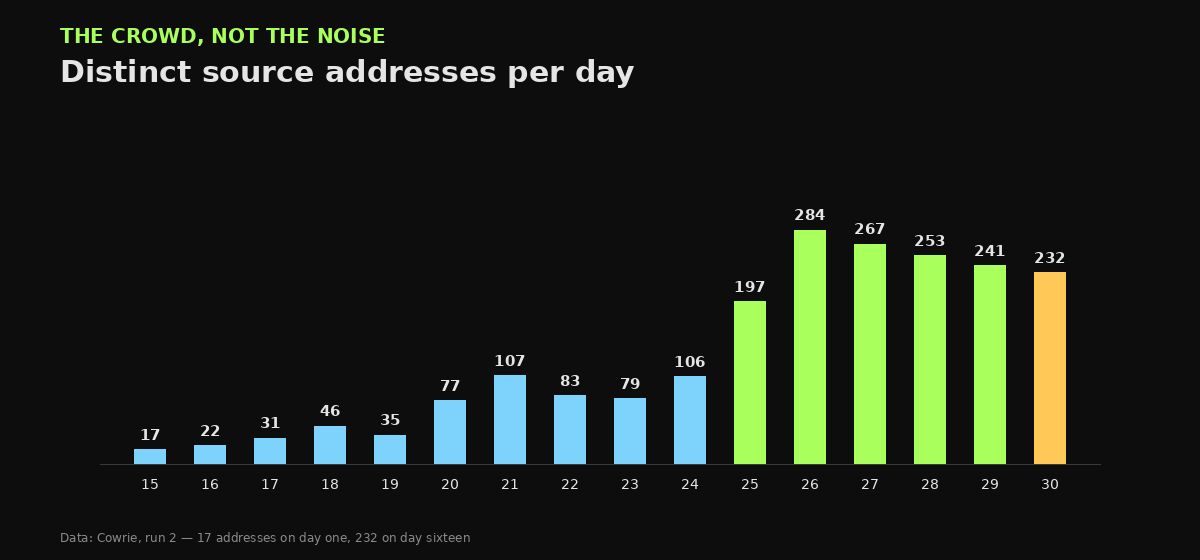
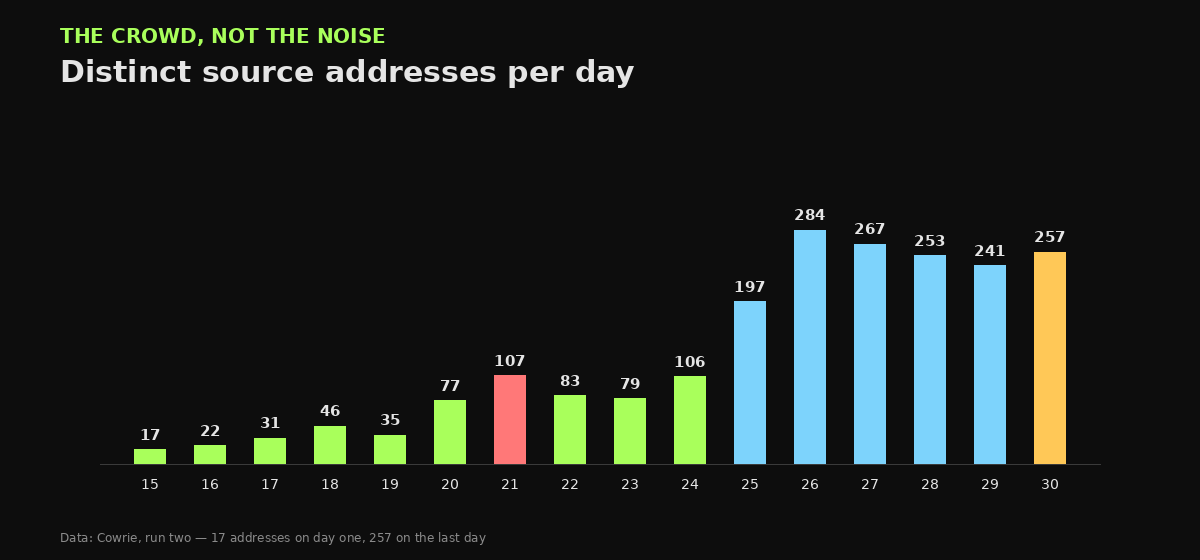
draft(honeypot v2): closing cut - final numbers, cast, charts from the closed run

Changed region(s): [[0.0925, 0.3946, 0.8942, 0.85], [0.1233, 0.9411, 0.4008, 0.9714]]

diff --git a/assets/img/posts/honeypot-v2-sinkhole-classes.html b/assets/img/posts/honeypot-v2-sinkhole-classes.html
@@ -5,12 +5,12 @@
 <body>
 <div style="height:128px;padding:24px 60px 0 60px;background:#0d0d0d;box-sizing:border-box">
   <div style="color:#a9ff5b;font:700 20px 'DejaVu Sans'">WHAT THE PLANTED PORTS WERE ASKED FOR</div>
-  <div style="color:#e5e5e5;font:700 30px 'DejaVu Sans';margin-top:6px">Fake-C2 traffic by class — 3,965 requests</div>
+  <div style="color:#e5e5e5;font:700 30px 'DejaVu Sans';margin-top:6px">Fake-C2 traffic by class — 4,006 requests</div>
 </div>
 <canvas id="c" width="1200" height="432"></canvas><script>
 Chart.defaults.font.family = 'DejaVu Sans';
 Chart.defaults.color = '#8c8c8c';
 Chart.register(ChartDataLabels);
-const cfg = {type:'doughnut',data:{labels:["treats the port as a plain web server \u2014 1,309 (33%)", "other path probes \u2014 764 (19%)", "hunts config, secrets, admin panels \u2014 641 (16%)", "TLS ClientHello on a non-TLS port \u2014 466 (12%)", "silent connections \u2014 325 (8%)", "looks for an AI agent (/mcp, /sse, /v1/messages) \u2014 201 (5%)", "raw protocol pings \u2014 180 (5%)", "embedded-device exploits (router, camera) \u2014 79 (2%)"],datasets:[{data:[1309, 764, 641, 466, 325, 201, 180, 79],backgroundColor:["#a9ff5b", "#4fb3a5", "#7dd3fc", "#ffc857", "#b07dd6", "#ff7878", "#8c8c8c", "#5a5a5a"],borderColor:'#0d0d0d',borderWidth:3,hoverOffset:6}]}},options:{cutout:'56%',layout:{padding:12},plugins:{legend:{position:'top',align:'center',labels:{boxWidth:13,padding:10,font:{size:13},color:'#e5e5e5'}},datalabels:{color:'#0d0d0d',font:{size:15,weight:'bold'},formatter:function(v,ctx){const t=ctx.chart.data.datasets[0].data.reduce((a,b)=>a+b,0);const p=v/t*100;return p>=6?p.toFixed(0)+'%':'';}}}}};
+const cfg = {type:'doughnut',data:{labels:["treats the port as a plain web server \u2014 1,320 (33%)", "other path probes \u2014 767 (19%)", "hunts config, secrets, admin panels \u2014 647 (16%)", "TLS ClientHello on a non-TLS port \u2014 478 (12%)", "silent connections \u2014 329 (8%)", "looks for an AI agent (/mcp, /sse, /v1/messages) \u2014 201 (5%)", "raw protocol pings \u2014 182 (5%)", "embedded-device exploits (router, camera) \u2014 82 (2%)"],datasets:[{data:[1320, 767, 647, 478, 329, 201, 182, 82],backgroundColor:["#a9ff5b", "#4fb3a5", "#7dd3fc", "#ffc857", "#b07dd6", "#ff7878", "#8c8c8c", "#5a5a5a"],borderColor:'#0d0d0d',borderWidth:3,hoverOffset:6}]}},options:{cutout:'56%',layout:{padding:12},plugins:{legend:{position:'top',align:'center',labels:{boxWidth:13,padding:10,font:{size:13},color:'#e5e5e5'}},datalabels:{color:'#0d0d0d',font:{size:15,weight:'bold'},formatter:function(v,ctx){const t=ctx.chart.data.datasets[0].data.reduce((a,b)=>a+b,0);const p=v/t*100;return p>=6?p.toFixed(0)+'%':'';}}}}};
 new Chart(document.getElementById('c'), cfg);
 </script></body></html>

diff --git a/assets/img/posts/honeypot-v2-ssh-attempts-per-day.html b/assets/img/posts/honeypot-v2-ssh-attempts-per-day.html
@@ -5,12 +5,12 @@
 <body>
 <div style="height:128px;padding:24px 60px 0 60px;background:#0d0d0d;box-sizing:border-box">
   <div style="color:#a9ff5b;font:700 20px 'DejaVu Sans'">PORT 22, DAY BY DAY</div>
-  <div style="color:#e5e5e5;font:700 30px 'DejaVu Sans';margin-top:6px">SSH login attempts per day — 94,404 in 16 days</div>
+  <div style="color:#e5e5e5;font:700 30px 'DejaVu Sans';margin-top:6px">SSH login attempts per day — 95,231 in 16 days</div>
 </div>
 <canvas id="c" width="1200" height="432"></canvas><script>
 Chart.defaults.font.family = 'DejaVu Sans';
 Chart.defaults.color = '#8c8c8c';
 Chart.register(ChartDataLabels);
-const cfg = {type:'bar',data:{labels:["15", "16", "17", "18", "19", "20", "21", "22", "23", "24", "25", "26", "27", "28", "29", "30"],datasets:[{data:[2718, 7619, 2828, 3221, 7831, 6629, 11948, 6855, 5131, 5333, 9957, 5225, 4033, 4638, 6453, 3985],backgroundColor:["#8c8c8c", "#8c8c8c", "#8c8c8c", "#8c8c8c", "#8c8c8c", "#8c8c8c", "#ff7878", "#8c8c8c", "#8c8c8c", "#8c8c8c", "#8c8c8c", "#8c8c8c", "#8c8c8c", "#8c8c8c", "#8c8c8c", "#ffc857"],borderWidth:0,barPercentage:0.6}]}},options:{layout:{padding:{top:24,right:24,bottom:8,left:8}},scales:{x:{grid:{display:false},ticks:{color:'#e5e5e5',font:{size:14}}},y:{display:false,beginAtZero:true,grace:'25%'}},plugins:{legend:{display:false},datalabels:{anchor:'end',align:'end',color:'#e5e5e5',font:{size:17,weight:'bold'},formatter:v=>v+'%'}}}};
+const cfg = {type:'bar',data:{labels:["15", "16", "17", "18", "19", "20", "21", "22", "23", "24", "25", "26", "27", "28", "29", "30"],datasets:[{data:[2718, 7619, 2828, 3221, 7831, 6629, 11948, 6855, 5131, 5333, 9957, 5225, 4033, 4638, 6453, 4812],backgroundColor:["#8c8c8c", "#8c8c8c", "#8c8c8c", "#8c8c8c", "#8c8c8c", "#8c8c8c", "#ff7878", "#8c8c8c", "#8c8c8c", "#8c8c8c", "#8c8c8c", "#8c8c8c", "#8c8c8c", "#8c8c8c", "#8c8c8c", "#ffc857"],borderWidth:0,barPercentage:0.6}]}},options:{layout:{padding:{top:24,right:24,bottom:8,left:8}},scales:{x:{grid:{display:false},ticks:{color:'#e5e5e5',font:{size:14}}},y:{display:false,beginAtZero:true,grace:'25%'}},plugins:{legend:{display:false},datalabels:{anchor:'end',align:'end',color:'#e5e5e5',font:{size:17,weight:'bold'},formatter:v=>v+'%'}}}};
 new Chart(document.getElementById('c'), cfg);
 </script></body></html>

diff --git a/assets/img/posts/honeypot-v2-distinct-ips-per-day.html b/assets/img/posts/honeypot-v2-distinct-ips-per-day.html
@@ -11,6 +11,6 @@
 Chart.defaults.font.family = 'DejaVu Sans';
 Chart.defaults.color = '#8c8c8c';
 Chart.register(ChartDataLabels);
-const cfg = {type:'bar',data:{labels:["15", "16", "17", "18", "19", "20", "21", "22", "23", "24", "25", "26", "27", "28", "29", "30"],datasets:[{data:[17, 22, 31, 46, 35, 77, 107, 83, 79, 106, 197, 284, 267, 253, 241, 232],backgroundColor:["#7dd3fc", "#7dd3fc", "#7dd3fc", "#7dd3fc", "#7dd3fc", "#7dd3fc", "#7dd3fc", "#7dd3fc", "#7dd3fc", "#7dd3fc", "#a9ff5b", "#a9ff5b", "#a9ff5b", "#a9ff5b", "#a9ff5b", "#ffc857"],borderWidth:0,barPercentage:0.6}]}},options:{layout:{padding:{top:24,right:24,bottom:8,left:8}},scales:{x:{grid:{display:false},ticks:{color:'#e5e5e5',font:{size:14}}},y:{display:false,beginAtZero:true,grace:'25%'}},plugins:{legend:{display:false},datalabels:{anchor:'end',align:'end',color:'#e5e5e5',font:{size:17,weight:'bold'},formatter:v=>v+'%'}}}};
+const cfg = {type:'bar',data:{labels:["15", "16", "17", "18", "19", "20", "21", "22", "23", "24", "25", "26", "27", "28", "29", "30"],datasets:[{data:[17, 22, 31, 46, 35, 77, 107, 83, 79, 106, 197, 284, 267, 253, 241, 257],backgroundColor:["#a9ff5b", "#a9ff5b", "#a9ff5b", "#a9ff5b", "#a9ff5b", "#a9ff5b", "#ff7878", "#a9ff5b", "#a9ff5b", "#a9ff5b", "#7dd3fc", "#7dd3fc", "#7dd3fc", "#7dd3fc", "#7dd3fc", "#ffc857"],borderWidth:0,barPercentage:0.6}]}},options:{layout:{padding:{top:24,right:24,bottom:8,left:8}},scales:{x:{grid:{display:false},ticks:{color:'#e5e5e5',font:{size:14}}},y:{display:false,beginAtZero:true,grace:'25%'}},plugins:{legend:{display:false},datalabels:{anchor:'end',align:'end',color:'#e5e5e5',font:{size:17,weight:'bold'},formatter:v=>v+'%'}}}};
 new Chart(document.getElementById('c'), cfg);
 </script></body></html>

diff --git a/assets/img/posts/honeypot-v2-value-surface.html b/assets/img/posts/honeypot-v2-value-surface.html
@@ -5,7 +5,7 @@
 <body>
 <div style="height:128px;padding:24px 60px 0 60px;background:#0d0d0d;box-sizing:border-box">
   <div style="color:#a9ff5b;font:700 20px 'DejaVu Sans'">WHAT THEY ASKED THE FAKE EXCHANGE FOR</div>
-  <div style="color:#e5e5e5;font:700 30px 'DejaVu Sans';margin-top:6px">Value-surface requests from 4 addresses — 27 hits</div>
+  <div style="color:#e5e5e5;font:700 30px 'DejaVu Sans';margin-top:6px">Value-surface requests, 4 addresses — 27 hits</div>
 </div>
 <canvas id="c" width="1200" height="432"></canvas><script>
 Chart.defaults.font.family = 'DejaVu Sans';

diff --git a/_drafts/2026-09-06-decoy-boutique-part-2.md b/_drafts/2026-09-06-decoy-boutique-part-2.md
@@ -3,40 +3,37 @@ title: "🍯 Honeypot v2: Crypto Boogaloo"
 date: 2030-01-01 00:00:00 -0600
 categories: [Security, Homelab]
 tags: [security, honeypot, crypto, threat-intel, self-hosting, project-writeup]
-description: "Part two of the honeypot story: a fake crypto-finance startup, credentials you can only guess by reading the business, and the hunt for the visitor that reads the page before it breaks in."
+description: "Sixteen days of a fake crypto-finance startup: 95,231 SSH attempts from 4,641 addresses, a handful of guests who read the wallet seed page, and nobody who took the bait."
 draft: true
 ---
 
 <!-- DRAFT-ONLY NOTES (delete before publish):
-STATUS: run two is LIVE — sixteen days in as of 2026-09-30. This draft follows the live-run rule:
-what changed and what is being hunted, no counts, no results, never the domain or the host.
-TITLE: Gabriel's pick, 2026-09-30 — "🍯 Honeypot v2: Crypto Boogaloo".
-PROVISIONAL CUT (interim numbers, for the closing rewrite — do NOT paste until he calls the run closed):
-  SSH 94,404 login attempts / 94,814 connections / 1 success and 1 command typed, both ours.
-  Web external: 15,049 requests. Funnel external-only: /robots.txt 412 (144 addrs) → /sitemap.xml 227 (44)
-  → /api/docs 98 (74) → /llms.txt 7 (7) → /agent-notes 0, /archive 0, /api/v1/agent-ack 0.
-  Value surface: /api/v1/balance 10, /withdraw 9, /keys 5, /export-seed 3 (the honeytoken), 4 addresses.
-  Fake-C2 sinkhole: 3,965 requests by class — plain web server 1,309 / other paths 764 / config+secrets+admin 641
-  / TLS ClientHello on a non-TLS port 466 / silent 325 / AI-agent endpoints (/mcp, /sse, /v1/messages) 201
-  / raw protocol pings 180 / embedded-device exploits 79.
-  SSH crowding: 17 distinct addresses on day one → 284 on day fifteen; distinct addresses are the trend.
-CHARTS (rendered 2026-09-30 with the interim cut, spec beside this file):
-  honeypot-v2-sinkhole-classes (donut) · honeypot-v2-value-surface (donut) ·
-  honeypot-v2-ssh-attempts-per-day (bar) · honeypot-v2-distinct-ips-per-day (bar) — PNG + Chart.js twin each.
-  All four are labelled "first sixteen days (open run)". Regenerate from the closing cut and split into
-  in-post mermaid where a pie fits. Part one's chart1..chart4 stay as they are — this set has its own names.
-DESCRIPTION: carries no numbers on purpose until the closing cut — part one's numbers live in the description
-  slot, not the H1, so add the closing figures here (126–183 chars).
-IP POLICY (Gabriel, 2026-09-30): addresses and hostnames stay in the internal note, never in the post.
-  Describe behaviour and the class of infrastructure. See Hermes/Fluvia-Actores-Interno.md.
-BANNER + audio: pending, same treatment as part one (banner needs a real data visual, not text only).
-SPLIT: part one shipped 2026-09-25 (the boutique). This is part two. The old combined
-  _drafts/2026-09-06-decoy-boutique.md is superseded and can be deleted.
+STATUS: run two CLOSED 2026-09-30 23:44 UTC (16 days, 15–30 September). Every number here is the closing
+cut, measured in the closing pass. Domain and host stay out of the prose (Gabriel, 2026-09-30: addresses
+and hostnames live in the internal note, never in the post).
+TITLE: Gabriel's pick — "🍯 Honeypot v2: Crypto Boogaloo".
+CHARTS: honeypot-v2-sinkhole-classes (donut, 4,006) · honeypot-v2-value-surface (donut, 27) ·
+honeypot-v2-ssh-attempts-per-day (bar, 95,231) · honeypot-v2-distinct-ips-per-day (bar, 17 → 257).
+PNG + Chart.js twin + spec (`2026-09-06-decoy-boutique-part-2-charts.json`), all from the closing cut,
+all labelled "run two … (full run)". Regenerate all three representations in one pass if the cut moves.
+EVIDENCE: exported and verified before the box went away — r2:private/fluvia/run2/final-2026-09-30
+(245 MB bundle, sha256 0b2fa62f925b35b4e941579ef5e182f078b4b290f4670d8236358a1839b9a057, 33 files).
+Snapshot `fluvia-run2-final-2026-09-30` (9.64 GB) kept; droplet destroyed, DNS released, watchers paused.
+BANNER + audio: still pending — the banner needs a real data visual (sparkline of addresses per day),
+not text only, and the narration runs last.
+SPLIT: part one shipped 2026-09-25. The old combined `_drafts/2026-09-06-decoy-boutique.md` is superseded.
 -->
+
+> **TL;DR**
+>
+> - Same trap, new prey: a fake crypto-finance startup with a wallet seed that only opens for someone who read the business.
+> - Sixteen days, 4,641 addresses, 95,231 SSH login attempts. Zero compromises. The one login that worked was mine.
+> - A few visitors read the fake exchange like a customer. One reached the wallet seed page and took nothing.
+> - Nobody confirmed the agent marker I left for them. The thing that walked the value surface was automation pretending to be a browser.
 
 ## Where part one left off
 
-Part one ended on the honest dead end: a fake textile store pulled in nothing but commodity noise, and every crowd that knocked was already documented in every feed you can subscribe to. Nobody read the shop. The one password I made guessable on purpose sat there for a week and stayed unguessed.
+Part one ended on an honest dead end. A fake textile store pulled in nothing but commodity noise, and every crowd that knocked was already documented in every feed you can subscribe to. Nobody read the shop, and the one password I made guessable on purpose sat there for a week, unguessed.
 
 If someone interesting exists out there, a WordPress boutique will not find them.
 
@@ -46,35 +43,66 @@ So I kept the method and changed the prey.
 
 A fake crypto-finance startup. It is the most targeted niche of the last few years, and its value surface is obvious to anyone who reads it: balances, withdrawals, an API, a wallet seed. That is the difference from the store — this business is worth understanding before you rob it.
 
-The changes matter more than the story:
+The changes mattered more than the story:
 
-- **Credentials that need context.** The fake shell no longer accepts everything. The logins that work are derived from the site's own content — the kind of password you can only produce by reading the business, not by running a dictionary. Anyone who gets in is, by construction, someone who read the shop.
+- **Credentials that need context.** The fake shell no longer accepts everything. The logins that work come from the site's own content — the kind of password you can only produce by reading the business instead of running a dictionary. Anyone who gets in is, by construction, someone who read the shop.
 - **The seed is a honeytoken.** There is an export endpoint for a wallet recovery phrase. Whoever touches it came for the money, and touching it writes a line in the log.
-- **C2 traffic gets answered instead of dropped.** When a visitor phones home, a sinkhole answers and keeps the conversation going, so the playbook runs to the end under observation instead of dying at the first step.
-- **Scripted and agentic get separated.** Every session is scored on timing and navigation order — whether the thing walking through my fake startup is a bot with a script or a model reasoning its way through.
+- **C2 traffic gets answered instead of dropped.** When a visitor phones home, a sinkhole answers and keeps the conversation going, so the playbook runs to the end under observation.
+- **Scripted and agentic get separated.** Every web session is scored on timing and navigation order, so a bot with a script and a model reasoning its way through do not look alike.
 
-Same rule as last time: nothing on that box can call out. Every request gets logged instead of allowed, and the visitor never learns they were talking to a wall.
+Same rule as last time: nothing on that box could call out. Every request got logged instead of allowed, and no visitor ever learned they were talking to a wall.
 
-## What run two changed
+## Who knocked this time
 
-Sixteen days in, the shape of the traffic is the opposite of run one. The boutique attracted volume and no attention. This one attracts less volume and more reading: visitors who fetch the API docs before they touch the API, and who ask for the endpoints those docs advertise instead of guessing at paths.
+Sixteen days produced 4,641 addresses and, once the noise was sorted, six characters.
 
-The planted ports tell their own story. Most of the traffic that finds them treats them as an ordinary web server — a root request, a favicon, a login page. A respectable slice arrives expecting secrets: config files, environment files, git directories, admin panels. Some arrive speaking TLS to a port that answers plain JSON, which means they believed they had found an HTTPS service and their playbook died mid-handshake. And a growing set asks for agent-shaped endpoints — the MCP and SSE and messages routes people use to wire models into tools. Nobody was looking for those two years ago.
+- 🌊 <a href="https://attack.mitre.org/techniques/T1110/003/"><strong>The Mob.</strong></a> Run one was one botnet hammering a dictionary. Run two is hundreds of consumer addresses trying two or three passwords each — a password spray from other people's living rooms. The widest wave spread 620 addresses and cleared two attempts per machine.
+- 🧱 <a href="https://attack.mitre.org/techniques/T1110/"><strong>The Hammer.</strong></a> One Bulgarian subnet that never learned subtlety: 52 addresses, 40,846 attempts, a dictionary of over a thousand users. Twice the volume of the same crew in run one.
+- 🏧 <a href="https://attack.mitre.org/techniques/T1595/"><strong>The API Walkers.</strong></a> Four hosts on one cloud, one script, four hours: keys, then balance three times, then withdraw. Same ending as everyone else on that surface — the request fields came back empty. They want a real exchange, and mine only looks like one.
+- 🔌 <a href="https://attack.mitre.org/techniques/T1046/"><strong>The Port Believers.</strong></a> 478 connections that opened with a TLS handshake against a port that answers plain JSON. Their tooling decided the port was HTTPS, the handshake died, and the playbook died with it.
+- 🤖 <a href="https://attack.mitre.org/techniques/T1595/002/"><strong>The Agent Census.</strong></a> 201 requests for `/mcp`, `/sse` and `/v1/messages`, the routes people wire models into tools with. Nobody scanned for those two years ago, and they arrived on the fake-C2 ports, not the web front.
+- 🗺 <a href="https://blog.cloudflare.com/ai-labyrinth/"><strong>The Reader.</strong></a> The one that matters. Two addresses on one consumer line, browser user-agents, days apart, walking the value surface in the same order both times and finishing on the wallet seed export. No exploit, no login, no withdrawal attempt carrying a number. It read the page and asked for what the page advertised.
 
-The credential guessing changed too. Run one was one botnet after another, each hammering a dictionary. Run two is quieter and wider: crowds of a few hundred addresses, a handful of attempts each, spread across consumer ISPs instead of rented servers. Low and slow, from machines that look like somebody's living room. A campaign that used to be one loud IP is now a mailing list.
+## The scoreboard
 
-## Who is reading
+Sixteen days, **4,641 addresses** — 2,575 on SSH, 1,118 on the web front, 1,053 against the planted ports. **95,231 SSH login attempts**, 95,671 connections, **one successful login and one command typed, both mine**. **15,071 web requests** from outside. Zero compromises, zero payloads run, zero value moved.
 
-One visitor class does the thing the whole lure was built for. It walks the value surface in order — balance, withdraw, webhooks, and the wallet seed export — from a residential address, with a browser user-agent, days apart, twice. It never exploits anything, never logs in, and never sends a withdrawal: the request fields come back empty. It read the page and asked for what the page advertised.
+![Fake-C2 traffic by class — 4,006 requests](/assets/img/posts/honeypot-v2-sinkhole-classes.png)
 
-Whether that is a scraper, a researcher, or a bot wearing a browser is the thing I cannot prove yet, and I would rather say so than file it as an intrusion.
+*The planted ports spent the run being mistaken for an ordinary web server. One request in twenty was looking for an agent.*
 
-On the other side sit the verified crawlers, and they behaved. The mainstream AI crawlers fetched the robots file, then the sitemap, then stopped. Which means the honest headline of this run is the same as the last one, one level down: the visitor that took the bait was not a crawler. It was an automation pretending to be a browser.
+![SSH login attempts per day — 95,231 in 16 days](/assets/img/posts/honeypot-v2-ssh-attempts-per-day.png)
 
-## What I am still hunting
+*Attempts peaked on day seven and never came back. The volume is weather; the next chart is the story.*
 
-The run stays open until I have enough to answer the question part one could not: when something walks in and starts reading, is it a person, or a machine? The instrumentation is built for it — an agent-only runbook on the site, a behavioural score on every session, and a honeytoken that fires when someone reaches for the money.
+![Distinct source addresses per day — 17 on day one, 257 on the last day](/assets/img/posts/honeypot-v2-distinct-ips-per-day.png)
 
-Three things have to resolve before this becomes a post with an ending: what the address that read the seed is, whether anyone at all confirms the agent marker (so far, silence), and whether the quiet credential crowds behind those consumer addresses are one operator or many. I have my guess. Guessing is not the point.
+*The crowd grew while the volume fell: 17 addresses on day one, 284 at the peak, 257 on the last day.*
 
-Part two when the run closes.
+![Value-surface requests, 4 addresses — 27 hits](/assets/img/posts/honeypot-v2-value-surface.png)
+
+*Twenty-seven requests is the whole take on the surface the lure was built to protect.*
+
+## The bait nobody took
+
+I left an explicit path for a machine: a runbook written for an agent, a marker to confirm it, and a robots file naming it. The funnel says what happened.
+
+Four hundred seventeen fetches of the robots file, from 144 addresses. Two hundred thirty of the sitemap. Ninety-eight of the API docs, the page that publishes the value surface. Seven, total, of the runbook. And of the marker only a reading agent would confirm: **zero, from outside**.
+
+The AI crawlers behaved. The verified ones fetched robots, then the sitemap, then stopped. That is the honest headline of this run, one level down from part one: the visitor that took the bait was not a crawler. It was an automation pretending to be a browser.
+
+The reputation service split the addresses in two again — everything that talked to the planted ports carries four to fourteen engine hits, while the script that walked the value surface is clean on every engine, and four hosts sweeping for secrets out of a cloud provider came back clean in three of four cases because they abuse rented space rather than their own hosting. Reputation tells you what an address is, not what it wants.
+
+## Person or machine?
+
+That was the question part one could not answer, and run two answers it halfway.
+
+The thing that read my fake exchange is automation. I know it from the shape: identical path sequences minutes apart from two different user-agents, requests for page and stylesheet tokens as if they were paths, relative URLs resolved against the current page instead of the origin. A hand-rolled crawler wearing a Chrome costume. It came for the money, read the page advertising where the money sits, and left with nothing.
+
+What it was not is a model reasoning its way through my site. Nobody confirmed the marker, no session tripped the behavioural threshold for an agentic walk, and the endpoint census on the fake-C2 ports came from scanners asking every port the same question. The agent era shows up in my logs as what people scan for, not yet as how they attack.
+
+## The end of the run
+
+I closed it at sixteen days. The evidence is exported, verified by re-downloading it and comparing hashes, and snapshotted as a backup; the box is gone, the DNS went with it, and the watchers are off.
+
+What two runs and seven weeks of a fake business bought me: not a single attacker who read the shop. A small site gets commodity noise, a crypto site gets commodity noise plus a few readers, and the difference is whether somebody believes there is money on the other side. The bait that worked was not a vulnerability. It was a balance.
